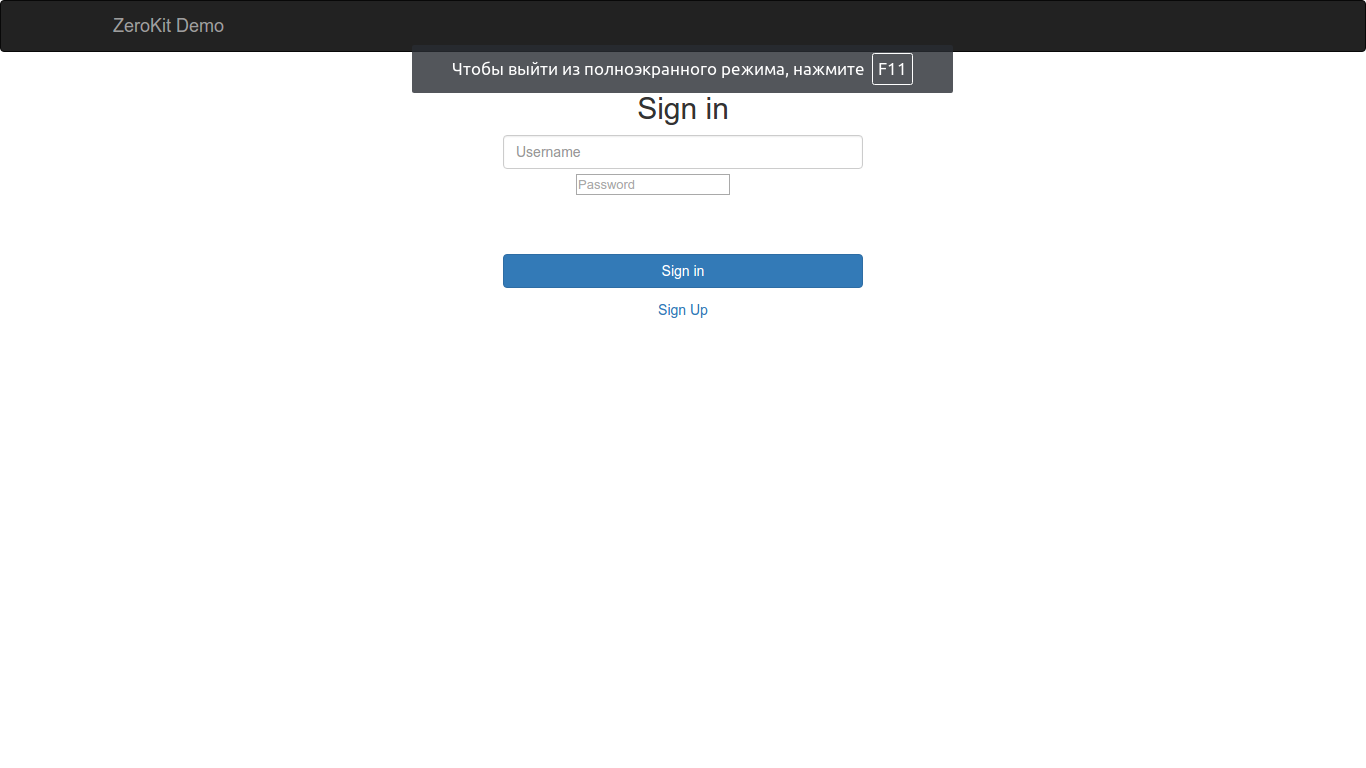
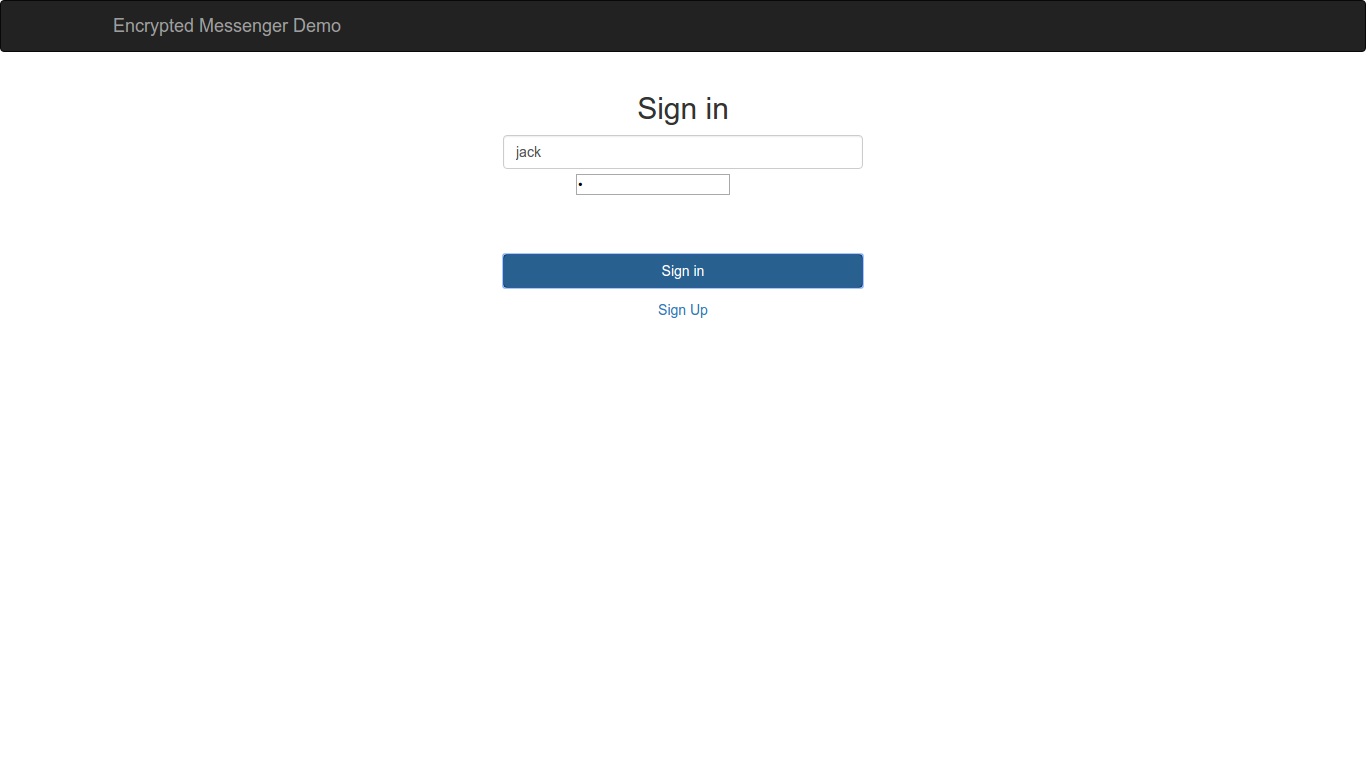
- updated readme - added screenshots

diff --git a/README.md b/README.md
@@ -17,31 +17,40 @@ cd zkit.app
 npm install
 ```
 
-Then open config.json and fill you zerokit credentials
+Then open config/default.js and fill you zerokit credentials, configure idb urls, backend port, database name
 
 Example:
 ```
-{
-  "dbUrl": "mongodb://user:pass@ds123456.mlab.com:49479/backend-sample",
-  "baseUrl": "https://samplebackend.tresorit.io/",
-  "appOrigins": ["https://samplefrontend.tresorit.io", "http://localhost:3002"],
-  "zeroKit": {
-    "serviceUrl": "https://tenant1234.tresorit.io",
-    "adminUserId": "admin@tenant1234.tresorit.io",
[1 lines of base64/hex data omitted]
-    "sdkVersion": "4",
-    "idp": [
-      {
-        "clientID": "tenant1234_client1234",
-        "clientSecret": "asdf1234asdf1234"
-      },
-      {
-        "clientID": "tenant1234_client4312",
-        "clientSecret": "fdsa4321fdsa4321",
-        "callbackURL": "https://tenant1234_client4312.tenant1234.tresorit.io"
-      }
-    ]
-  }
+const idpBaseUrl = 'https://s7g8gjvuj7.api.tresorit.io/idp';
+
+module.exports = {
+    port: 3000,
+    mongo: {
+        url: 'mongodb://localhost/zero-kit'
+    },
+    zeroKit: {
+        "serviceUrl": "https://s7g8gjvuj7.api.tresorit.io",
+        "adminUserId": "admin@s7g8gjvuj7.tresorit.io",
[1 lines of base64/hex data omitted]
+        "sdkVersion": "4",
+        "idp": [
+            {
+                "clientID": "s7g8gjvuj7_8XWEmNCNox",
+                "clientSecret": "s7g8gjvuj7_dpnIwFp7i3qpUwIh"
+            }
+        ]
+    },
+    openIdPassport: {
+        clientID: 's7g8gjvuj7_8XWEmNCNox',
+        clientSecret: 's7g8gjvuj7_dpnIwFp7i3qpUwIh',
+        authorizationURL: `${idpBaseUrl}/connect/authorize`,
+        tokenURL: `${idpBaseUrl}/connect/token`,
+        callbackURL:  `http://localhost:3000/api/auth/callback`,
+        userInfoURL: `${idpBaseUrl}/connect/userInfo`,
+        issuer: `${idpBaseUrl}`,
+        prompt: "none",
+        scope: "profile"
+    },
 }
 ```
 
@@ -53,7 +62,7 @@ cd project
 ```
 
 Then start backend application from box:
-```npm start```
+```npm run start.backend```
 
 After configure you backend, we need setup and configure client application.
  
@@ -67,20 +76,19 @@ npm run start.proxy
 ```
 
 ## Project overview
-Zerokit Demo Application included next functional:
+Zerokit Demo Secret Messenger Application included next functional:
  - registration 
  - IDP login
- - create tresor
- - encrypt text
- - decrypt text
- - share tresor
+ - logout
+ - select user for chat
+ - storing encrypted messages
  
 ## Screenshots
 ![Sign Up](https://github.com/PlusOneGeneration/zerokit-demo/blob/master/screenshots/sign-up.png "Sign Up")
 ![Sign in](https://github.com/PlusOneGeneration/zerokit-demo/blob/master/screenshots/sign-in.png "Sign in")
-![Encrypt](https://github.com/PlusOneGeneration/zerokit-demo/blob/master/screenshots/encrypt.png "Encrypt")
-![Decrypt](https://github.com/PlusOneGeneration/zerokit-demo/blob/master/screenshots/decrypt.png "Decrypt")
-![Share tresor](https://github.com/PlusOneGeneration/zerokit-demo/blob/master/screenshots/share.png "Share tresor")
+![Encrypt](https://github.com/PlusOneGeneration/zerokit-demo/blob/master/screenshots/user-list.png "Users list")
+![Decrypt](https://github.com/PlusOneGeneration/zerokit-demo/blob/master/screenshots/start-message.png "Start chat")
+![Share tresor](https://github.com/PlusOneGeneration/zerokit-demo/blob/master/screenshots/message.png "Chat")
 
 
 
